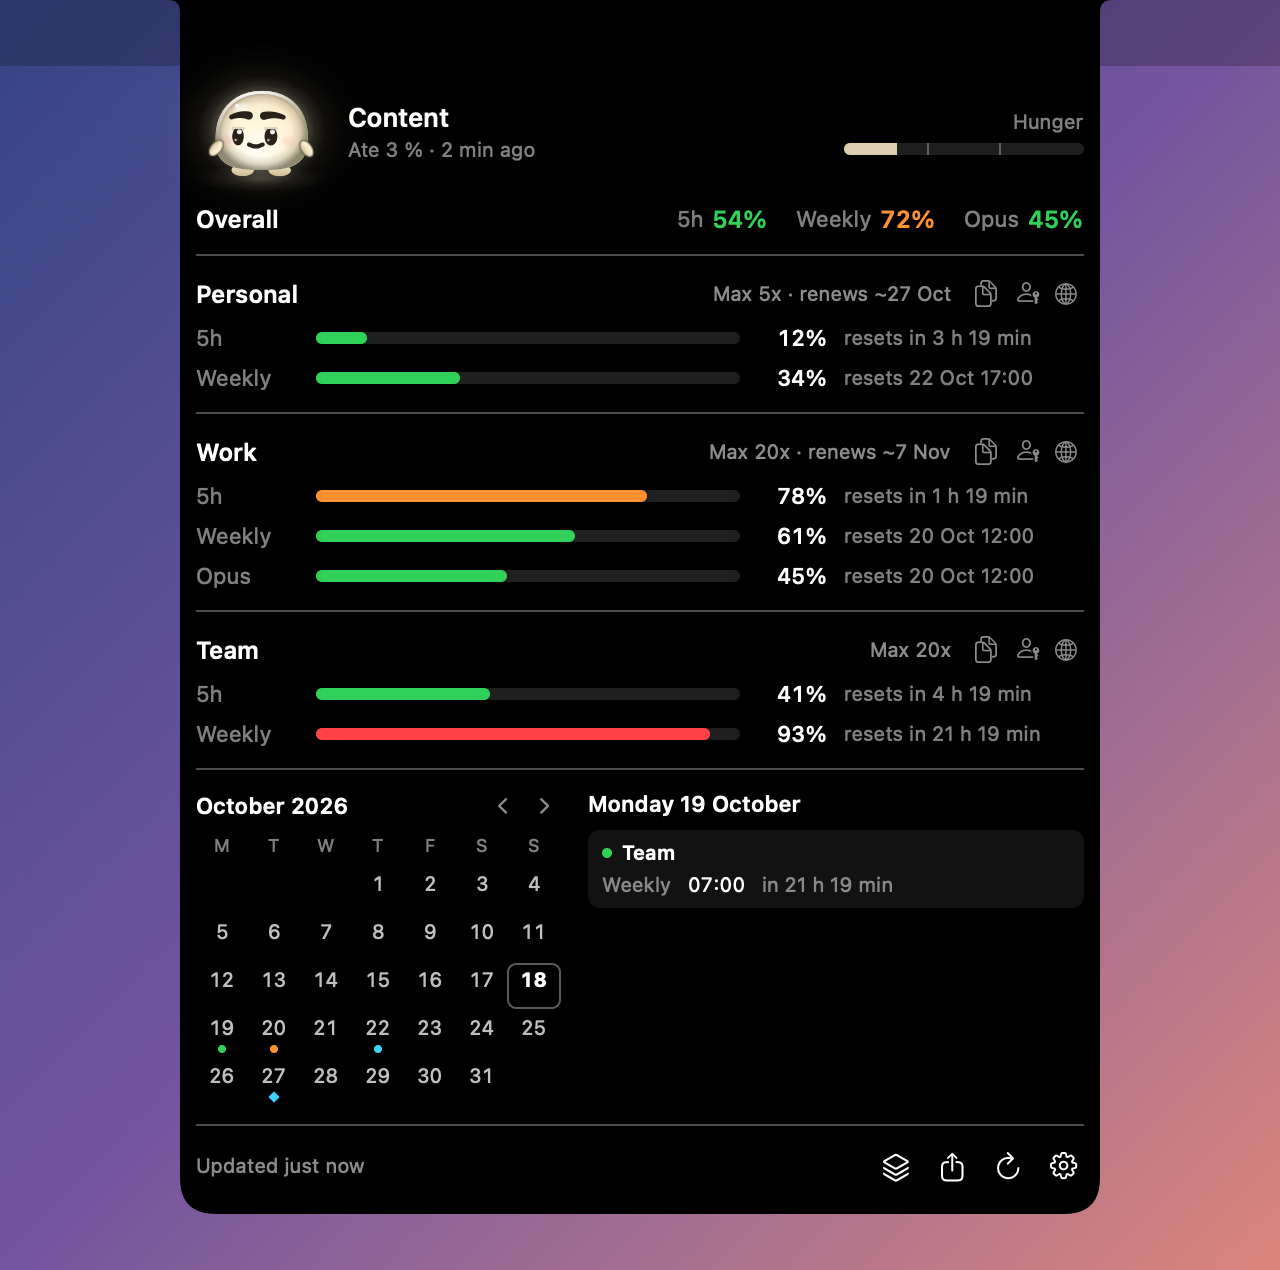
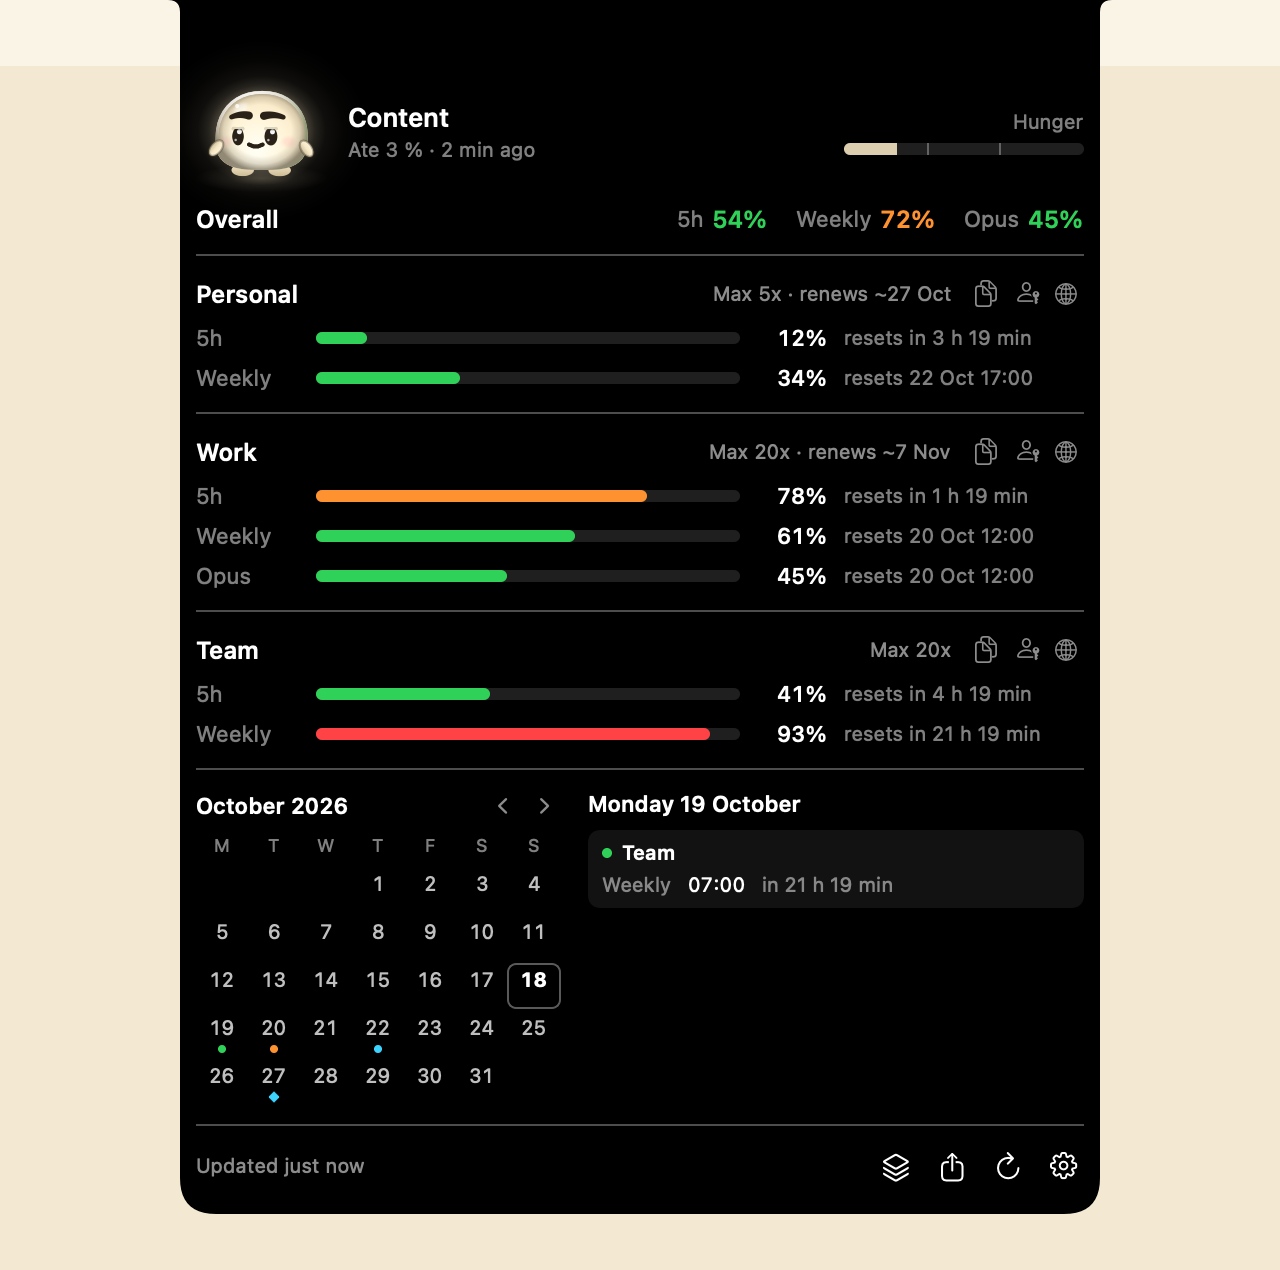
docs: the README screenshots hang from a cream desktop
The notch, the panel and the menu-bar item hung from a blue, purple and
peach gradient; they now hang from cream, the colour of Glim, as the
animations and the website do: #F3E8D2 under a #FAF4E7 menu-bar band of
the same height, both flat. White glyphs all but vanish on that band, so
the menu-bar item is drawn dark, the way a light menu bar tints a
template image, in the ink #2A2218. It comes back from ImageRenderer in
half floats, which were dithered on the way into the 8-bit PNG; they are
now rounded into an 8-bit image first, so its desktop is one colour too.
Only the five pictures with a desktop are re-rendered, and what hangs
from it is unchanged, the clock included.

diff --git a/Tests/BrowKitTests/DemoScreenshotTests.swift b/Tests/BrowKitTests/DemoScreenshotTests.swift
@@ -322,16 +322,18 @@ final class DemoScreenshotTests: XCTestCase {
     }
 
     /// A strip of menu bar with Brow's item among two stand-ins, the way the bar tints a
-    /// template image: white on a dark bar, and the clock at the demo's time.
+    /// template image: dark on a light bar, in the ink drawn on cream, and the clock at the
+    /// demo's time.
     @MainActor
     private func menuBarItem(now: Date) -> some View {
         let mark = BrowMark.templateImage(width: 22)
+        let ink = Color(red: 0x2A / 255, green: 0x22 / 255, blue: 0x18 / 255)
         return HStack(spacing: 14) {
             Spacer()
-            Image(systemName: "wifi").foregroundStyle(.white)
-            Image(nsImage: mark).renderingMode(.template).foregroundStyle(.white)
-            Image(systemName: "battery.75percent").foregroundStyle(.white)
-            Text(Self.menuBarClock(now)).font(.system(size: 13, weight: .medium)).foregroundStyle(.white)
+            Image(systemName: "wifi").foregroundStyle(ink)
+            Image(nsImage: mark).renderingMode(.template).foregroundStyle(ink)
+            Image(systemName: "battery.75percent").foregroundStyle(ink)
+            Text(Self.menuBarClock(now)).font(.system(size: 13, weight: .medium)).foregroundStyle(ink)
         }
         .padding(.horizontal, 14)
         .frame(width: 320, height: 33)
@@ -358,17 +360,15 @@ final class DemoScreenshotTests: XCTestCase {
 
     // MARK: - Rendering
 
-    /// `content` hanging from the top edge of a stand-in desktop: a wallpaper gradient
-    /// under a translucent menu-bar band. Height 0 = as tall as the content plus a margin.
+    /// `content` hanging from the top edge of a stand-in desktop: plain cream under a lighter
+    /// menu-bar band, both flat, the desktop of the animations and the website. Height 0 =
+    /// as tall as the content plus a margin.
     @MainActor
     private func renderOnDesktop<V: View>(_ content: V, canvas: CGSize, to url: URL) throws {
         let menuBar: CGFloat = 33
         let desktop = ZStack(alignment: .top) {
-            LinearGradient(colors: [Color(red: 0.20, green: 0.27, blue: 0.52),
-                                    Color(red: 0.45, green: 0.33, blue: 0.62),
-                                    Color(red: 0.86, green: 0.52, blue: 0.48)],
-                           startPoint: .topLeading, endPoint: .bottomTrailing)
-            Rectangle().fill(Color.black.opacity(0.22)).frame(height: menuBar)
+            Color(red: 0xF3 / 255, green: 0xE8 / 255, blue: 0xD2 / 255)
+            Rectangle().fill(Color(red: 0xFA / 255, green: 0xF4 / 255, blue: 0xE7 / 255)).frame(height: menuBar)
         }
         let body = VStack(spacing: 0) {
             content
@@ -381,7 +381,20 @@ final class DemoScreenshotTests: XCTestCase {
         let renderer = ImageRenderer(content: body)
         renderer.scale = 2
         let image = try XCTUnwrap(renderer.cgImage, "no image for \(url.lastPathComponent)")
-        try write(NSBitmapImageRep(cgImage: image), to: url)
+        try write(NSBitmapImageRep(cgImage: eightBit(image)), to: url)
+    }
+
+    /// `image` at 8 bits a channel, as the PNG stores it. With Brow's mark in it (an `NSImage`)
+    /// ImageRenderer hands back half floats, which are dithered on the way into the PNG: the flat
+    /// desktop comes out speckled a level or two off its colour. Drawn into an 8-bit context they
+    /// are rounded instead.
+    private func eightBit(_ image: CGImage) throws -> CGImage {
+        guard image.bitsPerComponent != 8 else { return image }
+        let context = try XCTUnwrap(CGContext(data: nil, width: image.width, height: image.height, bitsPerComponent: 8,
+                                              bytesPerRow: 0, space: CGColorSpace(name: CGColorSpace.sRGB)!,
+                                              bitmapInfo: CGImageAlphaInfo.premultipliedLast.rawValue))
+        context.draw(image, in: CGRect(x: 0, y: 0, width: image.width, height: image.height))
+        return try XCTUnwrap(context.makeImage(), "no 8-bit image")
     }
 
     /// The view as the content of a real window (ordered in far off-screen, never
